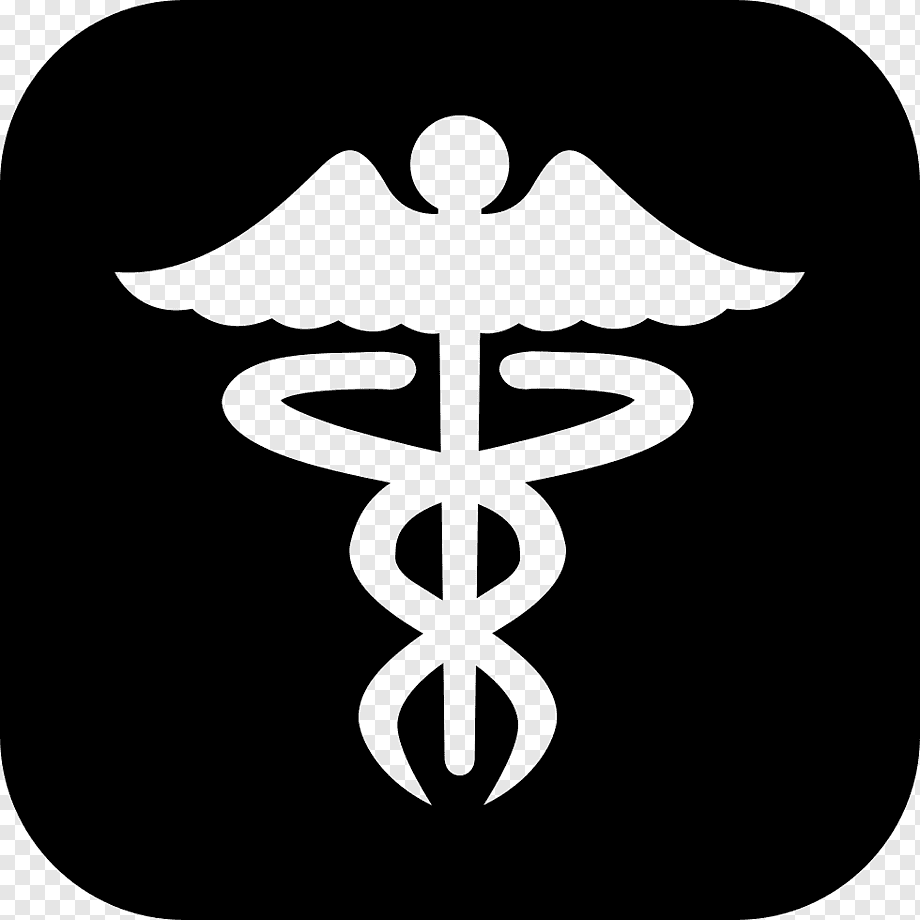
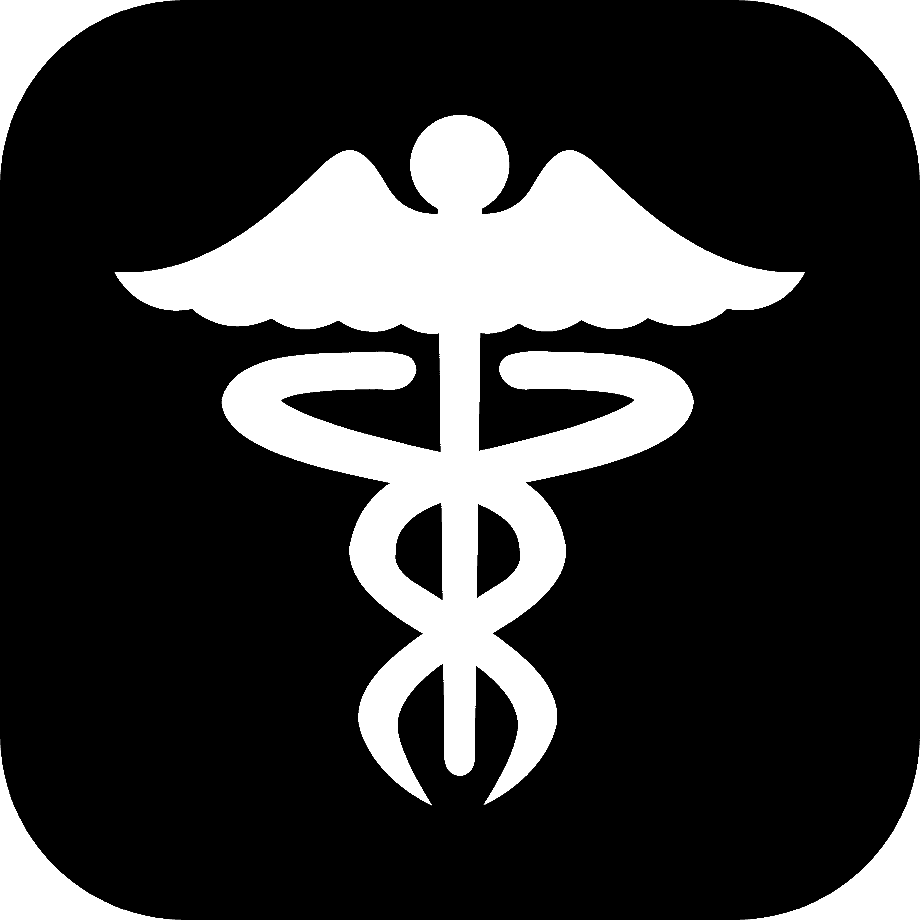
02/04/2022
Cambios que hice:
- Le quité el fondo a la imagen de prueba de especialidad
- Agregué titulo a las vistas
- Modifiqué el login
- Borré las vistas del register de profesores y padres

diff --git a/register.html b/register.html
@@ -4,13 +4,13 @@
     <meta charset="utf-8">
     <link rel="stylesheet" href="https://cdn.jsdelivr.net/npm/bootstrap@4.4.1/dist/css/bootstrap.min.css" integrity="sha384-Vkoo8x4CGsO3+Hhxv8T/Q5PaXtkKtu6ug5TOeNV6gBiFeWPGFN9MuhOf23Q9Ifjh" crossorigin="anonymous">
     <link rel="stylesheet" href="assets/css/login.css">
-    <title></title>
+    <title>Crear Cuenta</title>
   </head>
   <body>
       <div id="formulario" class="container">
         <div class="row">
           <div id="logo" class="col-4">
-            <img src="./assets/img/logo.png" alt="logo" style="  margin-top: 25%;">
+            <img src="./assets/img/logo.png" alt="logo" style="  margin-top: 19%;">
           </div>
           <div class="col-8">
             <div id="form" class="row">
@@ -20,16 +20,16 @@
               <div class="col-12">
                 <form action="register.html" method="post">
                   <div class="form-group">
-                    <input style="width: 45%;" type="text" name="nombre" placeholder="Nombre" required><input style="width: 45%;" type="text" name="apellido" placeholder="Apellido" required>
                     <input type="text" name="username" placeholder="Nombre de usuario" required>
                   </div>
                   <div class="form-group">
-                    <input type="email" name="email" placeholder="Correo electronico" required>
-                    <input type="text" name="cemail" placeholder="Correo electronico nuevamente" required>
+                    <input type="password" name="contraseña" placeholder="Ingrese su contraseña" required>
                   </div>
                   <div class="form-group">
-                    <input type="password" name="contraseña" placeholder="Ingrese su contraseña" required>
-                    <input type="password" name="contraseña" placeholder="Ingrese su contraseña nuevamente" required>
+                    <input style="width: 45%;" type="text" name="nombre" placeholder="Nombre" required><input style="width: 45%;" type="text" name="apellido" placeholder="Apellido" required>
+                  </div>
+                  <div class="form-group">
+                    <input type="email" name="email" placeholder="Correo electronico" required>
                   </div>
                   <div class="form-group">
                     <input id="submit" type="submit" name="submit" style="width: auto;">        

diff --git a/login.html b/login.html
@@ -4,20 +4,14 @@
     <meta charset="utf-8">
     <link rel="stylesheet" href="https://cdn.jsdelivr.net/npm/bootstrap@4.4.1/dist/css/bootstrap.min.css" integrity="sha384-Vkoo8x4CGsO3+Hhxv8T/Q5PaXtkKtu6ug5TOeNV6gBiFeWPGFN9MuhOf23Q9Ifjh" crossorigin="anonymous">
     <link rel="stylesheet" href="assets/css/login.css">
-    <title></title>
+    <title>Iniciar Secion</title>
   </head>
   <body>
-
-
-
       <div id="formulario" class="container">
         <div class="row">
           <div id="logo" class="col-4">
             <img src="./assets/img/logo.png" alt="logo" class="logo_main">
           </div>
-
-
-
           <div class="col-8">
             <div id="form" class="row" style="padding: 20px;">
               <div class="col-12">
@@ -36,25 +30,11 @@
                     <input id="submit" type="submit" name="submit" value="Ingresar">         
                   </div> 
                 </form>
-                <a class="reg" href="registerD.html">Registrarse como Docente</a>
-                <a class="reg" href="registerP.html">Registrarse como Padre</a>
-                <a class="reg" href="register.html">Registrarse como Estudiante</a>
+                <a class="reg" href="register.html">Crear Cuenta</a>
                 <a class="forg" href="forgot-password.html">¿Olvidaste tu contraseña?</a>
               </div>
             </div>
-
           </div>
-
-
-
-
-
-
-
-
-
-          </div>
-
         </div>
       </div>
 

diff --git a/automotores.html b/automotores.html
@@ -6,7 +6,7 @@
     <meta name="viewport" content="width=device-width, initial-scale=1.0">
     <link href="https://cdn.jsdelivr.net/npm/bootstrap@5.0.2/dist/css/bootstrap.min.css" rel="stylesheet" integrity="sha384-EVSTQN3/azprG1Anm3QDgpJLIm9Nao0Yz1ztcQTwFspd3yD65VohhpuuCOmLASjC" crossorigin="anonymous">
     <link rel="stylesheet" href="assets/css/mi-carousel.css">
-
+    <title>Especialidad Automotores</title>
 </head>
 <body>
     <header>

diff --git a/computacion.html b/computacion.html
@@ -6,7 +6,7 @@
     <meta name="viewport" content="width=device-width, initial-scale=1.0">
     <link href="https://cdn.jsdelivr.net/npm/bootstrap@5.0.2/dist/css/bootstrap.min.css" rel="stylesheet" integrity="sha384-EVSTQN3/azprG1Anm3QDgpJLIm9Nao0Yz1ztcQTwFspd3yD65VohhpuuCOmLASjC" crossorigin="anonymous">
     <link rel="stylesheet" href="assets/css/mi-carousel.css">
-
+    <title>Especialidad Computacion</title>
 </head>
 <body>
     <header>

diff --git a/mecanica.html b/mecanica.html
@@ -6,7 +6,7 @@
     <meta name="viewport" content="width=device-width, initial-scale=1.0">
     <link href="https://cdn.jsdelivr.net/npm/bootstrap@5.0.2/dist/css/bootstrap.min.css" rel="stylesheet" integrity="sha384-EVSTQN3/azprG1Anm3QDgpJLIm9Nao0Yz1ztcQTwFspd3yD65VohhpuuCOmLASjC" crossorigin="anonymous">
     <link rel="stylesheet" href="assets/css/mi-carousel.css">
-
+    <title>Especialidad Mecanica</title>
 </head>
 <body>
     <header>

diff --git a/index.html b/index.html
@@ -36,7 +36,7 @@
 		</div>
 	</div>
     <div class="contenedorVideo">
-        <video src="assets/video/3 Ejercicios Para Saltar Mas En Casa(Prueba).mp4" class="slider" loop muted controls></video>
+        <video src="http://181.228.97.145:800/pagina/Proyecto%20PP/assets/video/3%20Ejercicios%20Para%20Saltar%20Mas%20En%20Casa(Prueba).mp4" class="slider" loop muted controls></video>
     <footer></footer>
 </body>
 </html>

diff --git a/perfil.html b/perfil.html
@@ -11,7 +11,6 @@
 	</header>
 		<aside>
 			<ul>
-			
 				<li>
 					<a href="">Inicio</a>
 				</li>
